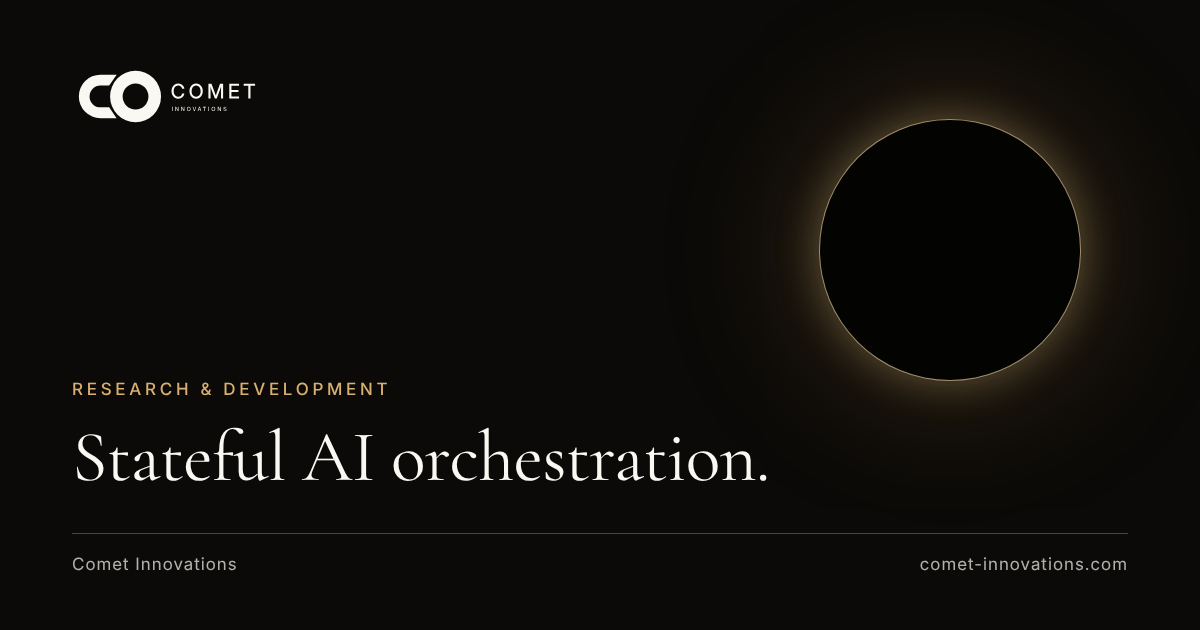
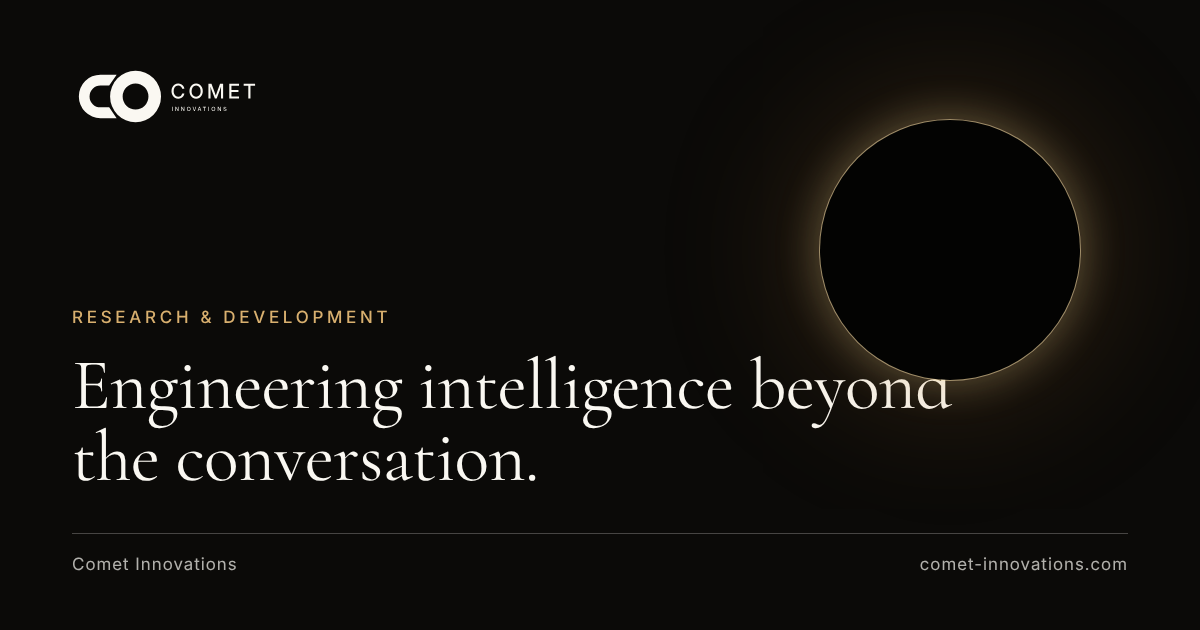
Replace the Research & Development page with the revised copy
- New copy: engineering intelligence beyond the conversation, Stateful AI
  Orchestration with its eight areas of investigation and the
  patent-pending note, why it matters, research with practical relevance
  and the "Beyond the model." close.
- Keeps the #stateful-ai-orchestration anchor that the homepage and
  Engineer link to; the DefinedTerm now matches the visible definition.
- The call to action preselects the engineering contact topic, and the
  engineering perspective links to /engineer.

Claude-Session: https://claude.ai/code/session_01S63pzjcwrUnhiZ14qCX8BA

Changed region(s): [[0.0617, 0.573, 0.8017, 0.7841], [0.0617, 0.4825, 0.3392, 0.5127]]

diff --git a/src/pages/research-and-development.html b/src/pages/research-and-development.html
@@ -1,15 +1,56 @@
-<!--meta {"title": "AI Research: Stateful AI Orchestration | Comet Innovations", "description": "Comet Innovations conducts applied research into persistent state, validation-gated execution and orchestration for AI-native enterprise systems.", "heading": "Research & Development", "breadcrumb": "Research & Development", "intent": {"primary": "stateful AI orchestration", "secondary": ["AI orchestration", "persistent AI systems", "agentic AI architecture", "enterprise AI architecture"]}, "ogImage": "/images/og/research-and-development.png", "updated": "2026-10-14", "schema": ["term"], "terms": [{"id": "stateful-ai-orchestration", "name": "Stateful AI orchestration", "description": "System architectures in which AI operates against a persistent, structured record of the work, including what has happened, what state each process is in and which actions are pending, rather than treating each interaction as an isolated prompt."}]} -->
-<section class="page-hero"><div class="shell"><p class="eyebrow">Research &amp; Development</p><h1>Building the foundations of AI-native organisations.</h1><p>Most AI systems still operate as a sequence of isolated interactions. Organisations do not. Work continues over time. Context accumulates. Decisions create consequences.</p></div></section>
-<section class="rnd" id="stateful-ai-orchestration"><div class="rnd-copy"><p class="eyebrow">Current research</p><h2>Stateful AI orchestration.</h2>
-<p class="definition"><dfn>Stateful AI orchestration</dfn> refers to system architectures in which AI operates against a persistent, structured record of the work, including what has happened, what state each process is in and which actions are pending, rather than treating each interaction as an isolated prompt.</p>
-<p>Our work examines architectures in which AI operates against persistent state rather than treating each interaction as an isolated prompt.</p><p>Current research areas include persistent system state, structured task generation, validation-gated execution, multi-step orchestration, state-dependent decision making and persistent autonomous workflows.</p><p>This work has resulted in patent-pending intellectual property developed by Comet Innovations.</p></div><div class="rnd-visual" aria-hidden="true"><div class="rnd-grid"></div><div class="rnd-circle"></div><div class="rnd-line"></div></div></section>
-<section class="section"><div class="shell split"><div><p class="eyebrow">Why it matters</p><h2 class="section-title">Enterprise AI must do more than respond intelligently.</h2></div><div class="case-list">
-<div class="case"><h3>Understand what has already happened.</h3></div>
-<div class="case"><h3>Know what state a process is in.</h3></div>
-<div class="case"><h3>Determine what should happen next.</h3></div>
-<div class="case"><h3>Coordinate activity across systems and people.</h3></div>
-<div class="case"><h3>Validate outcomes before moving forward.</h3></div>
-<div class="case"><h3>Continue working over time.</h3></div>
-</div></div></section>
-<section class="section dark"><div class="shell intro-grid"><div><h2 class="eyebrow">Applied research</h2></div><div class="copy"><p class="lead">Research that survives contact with the real world.</p><p>We pursue research with commercial relevance. The research informs how we think about <a href="/work-redesign#agentic-ai">agentic AI</a>, <a href="/work-redesign#workflow-redesign">workflow redesign</a> and AI-native organisations. It is not a product. It is part of how we develop technical depth.</p></div></div></section>
-<section class="section section-ruled" aria-labelledby="related-title"><div class="shell split"><div><h2 class="eyebrow" id="related-title">Continue exploring</h2></div><ul class="related-list"><li><a href="/work-redesign"><span class="eyebrow">Service</span><span class="related-list-title">Work Redesign</span><span class="related-list-note">Where agentic AI changes how work is organised.</span></a></li><li><a href="/about#people"><span class="eyebrow">People</span><span class="related-list-title">The people behind Comet</span></a></li><li><a href="/what-we-do"><span class="eyebrow">Framework</span><span class="related-list-title">The Four Fundamentals</span><span class="related-list-note">How value, work, organisation and growth fit together.</span></a></li></ul></div></section>
+<!--meta {"title": "AI Research: Stateful AI Orchestration | Comet Innovations", "description": "Comet’s applied research into stateful AI orchestration: persistent workflow state, validation-gated execution and multi-step orchestration for enterprise AI.", "heading": "Research & Development", "breadcrumb": "Research & Development", "intent": {"primary": "stateful AI orchestration", "secondary": ["AI orchestration", "persistent AI workflows", "agentic AI architecture", "enterprise AI architecture"]}, "ogImage": "/images/og/research-and-development.png", "ogHeadline": "Engineering intelligence beyond the conversation.", "updated": "2026-10-25", "schema": ["term"], "terms": [{"id": "stateful-ai-orchestration", "name": "Stateful AI orchestration", "description": "AI system architectures in which work is represented through persistent, structured state, maintaining information about the status of processes, completed actions, outstanding tasks and the conditions governing subsequent execution."}]} -->
+<section class="page-hero"><div class="shell">
+<p class="eyebrow">Our thinking</p>
+<h1>Research &amp; Development</h1>
+<h2 class="lead-statement">Engineering intelligence beyond the conversation.</h2>
+<p>Many AI applications are designed around individual interactions.</p>
+<p>A user asks a question. A model produces a response. The interaction ends.</p>
+<p>Business operations rarely work this way.</p>
+<p>Processes unfold over time. Information changes. Tasks remain open. Decisions create dependencies. Actions require validation.</p>
+<p>AI systems intended to operate within these environments must do more than generate intelligent responses.</p>
+<p>They need architectures capable of maintaining context, managing state and coordinating activity across systems and people.</p>
+</div></section>
+
+<section class="rnd" id="stateful-ai-orchestration" aria-labelledby="focus-title"><div class="rnd-copy">
+<h2 class="eyebrow" id="focus-title">Our research focus</h2>
+<h3>Stateful AI Orchestration</h3>
+<p class="definition">Comet’s applied research examines AI system architectures in which work is represented through persistent, structured state.</p>
+<p>Rather than relying exclusively on isolated prompts, these architectures maintain information about the status of processes, completed actions, outstanding tasks and the conditions governing subsequent execution.</p>
+<p>Current areas of investigation include:</p>
+<ul class="research-areas">
+<li>Persistent system and workflow state.</li>
+<li>Structured task generation and management.</li>
+<li>Context continuity across interactions.</li>
+<li>State-dependent decision-making.</li>
+<li>Validation-gated execution.</li>
+<li>Multi-step orchestration.</li>
+<li>Coordination between AI capabilities and external systems.</li>
+<li>Persistent autonomous workflows.</li>
+</ul>
+<p><strong>This work has contributed to patent-pending intellectual property.</strong></p>
+</div><div class="rnd-visual" aria-hidden="true"><div class="rnd-grid"></div><div class="rnd-circle"></div><div class="rnd-line"></div></div></section>
+
+<section class="section"><div class="shell split">
+<div><h2 class="section-title">Why it matters.</h2></div>
+<div class="copy">
+<div class="principles">
+<div class="reveal"><h3>Continuity</h3><p>Enterprise systems need to understand what has already occurred and what remains outstanding.</p></div>
+<div class="reveal"><h3>Control</h3><p>AI-generated actions require appropriate boundaries, permissions and validation.</p></div>
+<div class="reveal"><h3>Coordination</h3><p>Operational work frequently spans multiple applications, roles and processes.</p></div>
+<div class="reveal"><h3>Reliability</h3><p>Systems must handle exceptions, maintain traceability and behave predictably within defined operating requirements.</p></div>
+<div class="reveal"><h3>Accountability</h3><p>Organisations need to understand which actions were taken, under which conditions and with what outcomes.</p></div>
+</div>
+</div>
+</div></section>
+
+<section class="section section-ruled"><div class="shell split">
+<div><h2 class="section-title">Research with practical relevance.</h2></div>
+<div class="copy">
+<p class="lead">We pursue applied research to deepen our understanding of how AI can participate in persistent business workflows.</p>
+<p>This research informs our <a href="/engineer">engineering perspective</a> on enterprise AI, agentic systems and AI-native applications.</p>
+<p>It is distinct from a guarantee that every research concept is available as a production-ready commercial solution.</p>
+<p>Our engineering engagements are scoped against the capabilities, requirements and technical maturity relevant to each client.</p>
+</div>
+</div></section>
+
+<section class="close"><div class="shell"><h2>Beyond the model.</h2><p>The effectiveness of enterprise AI depends not only on model intelligence, but also on architecture, integration, control and the design of the workflow in which it operates.</p><p>These are the questions guiding our research.</p><div class="hero-actions"><a class="nav-cta" href="/contact?topic=engineering">Discuss Applied AI Engineering</a></div></div></section>

diff --git a/test/site.test.js b/test/site.test.js
@@ -289,7 +289,10 @@ test('positioning is intact: fundamentals, pillars, delivery modes and R&D', () 
   for (const page of ['value-creation.html', 'work-redesign.html', 'operating-model.html', 'venture-building.html', 'research-and-development.html', 'what-we-do.html']) {
     assert.ok(pages.includes(page), page);
   }
-  assert.ok(text('research-and-development.html').includes('It is not a product.'));
+  const rd = text('research-and-development.html');
+  for (const line of ['Engineering intelligence beyond the conversation.', 'Stateful AI Orchestration', 'Validation-gated execution.', 'This work has contributed to patent-pending intellectual property.', 'Why it matters.', 'Research with practical relevance.', 'Beyond the model.']) assert.ok(rd.includes(line), line);
+  assert.match(html('research-and-development.html'), /<section class="rnd" id="stateful-ai-orchestration"/);
+  assert.match(html('research-and-development.html'), /href="\/contact\?topic=engineering"[^>]*>Discuss Applied AI Engineering/);
 });
 
 test('the Fundamentals Diagnostic is retired: no page, links, mentions or contact topic', () => {
@@ -511,7 +514,7 @@ test('the specified H1s are used', () => {
   assert.equal(h1('venture-building.html'), 'Growth');
   assert.equal(h1('insights.html'), 'Insights');
   assert.equal(h1('about.html'), 'About Comet Innovations');
-  assert.equal(h1('research-and-development.html'), 'Building the foundations of AI-native organisations.');
+  assert.equal(h1('research-and-development.html'), 'Research & Development');
 });
 
 test('every image has alt text, empty only when decorative', () => {

diff --git a/public/styles.css b/public/styles.css
@@ -198,6 +198,10 @@ main:focus{outline:none}
 .close .framework-link{font-size:15px;margin-top:48px}
 .close .framework-link a{color:var(--chalk);text-decoration:underline;text-underline-offset:3px}
 .close .framework-link+.framework-notice{margin-top:10px}
+.rnd-copy h3{font-family:var(--serif);font-size:clamp(40px,4vw,60px);font-weight:400;line-height:1.02;margin:16px 0 26px}
+.rnd-copy .definition{border-left-color:var(--ember)}
+.research-areas{list-style:none;margin:8px 0 28px;padding:0;border-top:1px solid var(--line)}
+.research-areas li{font-family:var(--serif);font-size:clamp(19px,1.6vw,22px);line-height:1.3;padding:10px 0;border-bottom:1px solid var(--line)}
 .fundamental-mark{display:flex;align-items:center;gap:14px}
 .fundamental-mark .glyph{width:32px;height:32px;color:var(--ember)}
 .page-hero p a:not(.nav-cta):not(.btn):not(.link){text-decoration:underline;text-underline-offset:3px;text-decoration-color:rgba(20,20,18,.35)}
